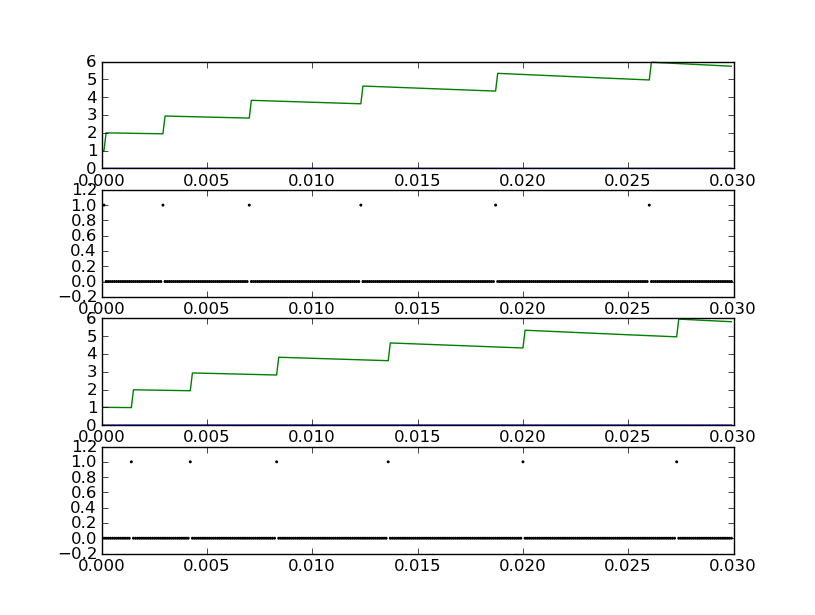
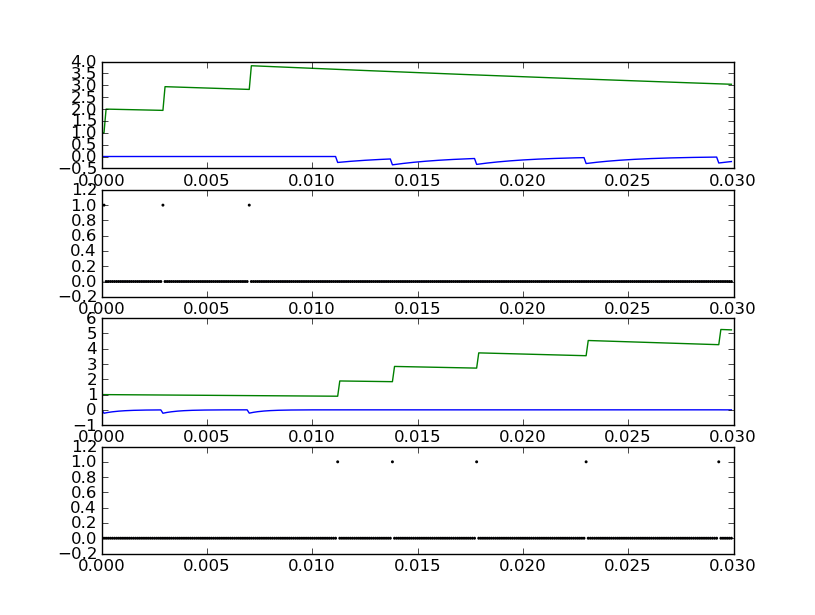
Fixed half_center5.pde Working on half_center6.pde

diff --git a/serial/HCO_chain_arduino2.py b/serial/HCO_chain_arduino2.py
@@ -59,18 +59,37 @@ dv/dt = (tr-v)/(1*k)/tau : volt
 dk/dt = -10*k/(1*second) : volt/volt
 '''
 
+nspikes = 0
+def reset_fun(G, spikes):
+	global nspikes
+	for neuron in spikes:
+		G[neuron].k+=1
+		G[neuron].v=v0
+		for prxy in range(2):
+			dv = float(Cp[neuron,prxy])    # should be in volts
+			if dv!=0:
+				nspikes+=1
+				ard.send_spike(prxy)
+				#ard.inc_value(prxy, 'v', dv)
 reset = '''
-k+=2
+k+=1
 v=v0
 '''
 
-IF = NeuronGroup(2, model=eqs, reset=reset, threshold=threshold)
+## IF = NeuronGroup(2, model=eqs, reset=reset, threshold=threshold)
+IF = NeuronGroup(2, model=eqs, reset=reset_fun, threshold=threshold)
 
 proxy_eqs = '''
 dv/dt = 0*volt/second : volt
 dk/dt = 0/second : volt/volt
 '''
-proxy = NeuronGroup(2, model=proxy_eqs, reset=reset, threshold=threshold)   # proxy neurons for the arduino
+
+	
+proxy_reset = '''
+k+=1
+v=v0
+'''
+proxy = NeuronGroup(2, model=proxy_eqs, reset=proxy_reset, threshold=threshold)   # proxy neurons for the arduino
 IF.v=[v1,v0]
 IF.k=[1,1]
 proxy.v = [v0,v0]
@@ -146,17 +165,22 @@ def update_arduino():
 	step_time.stop()
 	
 	
-	
+"""
+nspikes = 0
 def IF_spike(spikes):
+	global nspikes
 	for neuron in spikes:
 		for prxy in range(2):
 			dv = float(Cp[neuron,prxy])    # should be in volts
 			if dv!=0:
-				#ard.send_spike(prxy)
-				ard.inc_value(prxy, 'v', dv)
+				nspikes+=1
+				ard.send_spike(prxy)
+				#ard.inc_value(prxy, 'v', dv)
+"""
 
 				
-SpikeMonitor(IF, function = IF_spike)
+# IF_spike is not being called.  Dont know why not
+## SpikeMonitor(IF, function = IF_spike)
 spIF1 = SpikeMonitor(IF[0]) #, function = IF_spike)
 spIF2 = SpikeMonitor(IF[1]) #, function = IF_spike)
 ## spIF = SpikeMonitor(IF, function = IF_spike)
@@ -183,6 +207,7 @@ print "simulation complete!"
 print "average communication time = "+str(communication_time.results())+" seconds"
 print "average arduino calculation time = "+str(calculation_time.results())+" seconds"
 print "average simulation step time = "+str(step_time.results())+" seconds"
+print "# spikes sent = "+str(nspikes)
 
 times = MvIF.times / ms
 subplot(611)

diff --git a/serial/HCO_arduino_only2.py b/serial/HCO_arduino_only2.py
@@ -45,10 +45,12 @@ def update_arduino():
 				vars[neuron][var].append(ard.get_value_v4(neuron, var))
 			else:
 				vars[neuron][var].append(ard.get_value(neuron, var))
-		vars[neuron]['spike'].append(ard.get_single_spike(neuron))
-	#s1,s2 = ard.get_spikes()
-	#vars[0]['spike'].append(s1)
-	#vars[1]['spike'].append(s2)
+		if VERSION<5:
+			vars[neuron]['spike'].append(ard.get_single_spike(neuron))
+	if VERSION>=5:
+		s1,s2 = ard.get_spikes()
+		vars[0]['spike'].append(s1)
+		vars[1]['spike'].append(s2)
 		
 	for i in xrange(int(dt/timestep)):
 		if VERSION<5:
@@ -90,6 +92,7 @@ run(timespan)
 
 print "simulation complete!"
 ard.Light(0)
+ard.close()     # no longer need arduino
 
 try:
 	subplot(411)

diff --git a/serial/arduino.py b/serial/arduino.py
@@ -110,11 +110,18 @@ class HCO(Arduino):
 		# n must equal 2
 		assert(n==2)
 		nbytes = ord(self.read_wait(1))
+		assert(nbytes==1)
 		bytes = self.read_wait(nbytes)
+		"""
 		spikes = [0]*n
 		for i in range(n):
 			if ord(bytes[i/8])&(1<<(i%8)):
 				spikes[i] = 1
+		"""
+		spikes = [0,0]
+		data = ord(bytes[0])
+		spikes[0] = 1&data
+		spikes[1] = 2&data
 		return spikes
 		
 	def send_spike(self, neuron):
